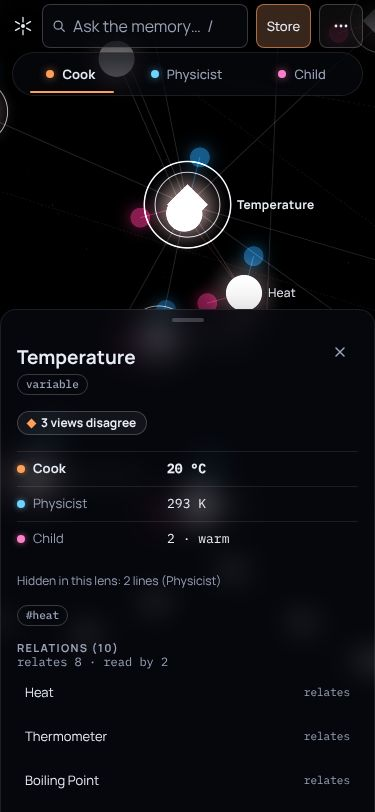
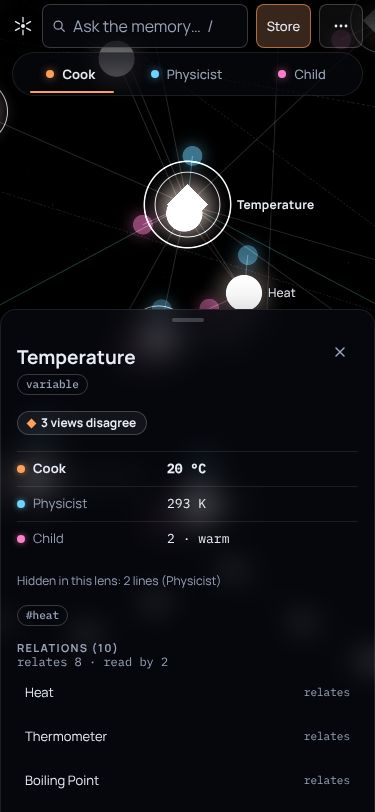
M-0002: 3D void and instruments (WO-003), verify green
Claude-Session: https://claude.ai/code/session_01Nz16PwjAT5eDHtiEjG1iHC

diff --git a/projects/constellation/src/view/renderer.ts b/projects/constellation/src/view/renderer.ts
@@ -17,7 +17,7 @@ import type {
   SceneSnapshot,
   TransitionOptions,
 } from './contracts.ts';
-import { createDust, DASH, KIND_CODE, LineLayer, NodeLayer, OP_CODE, SHEEN, SPRITE, SpriteLayer, type LineSpec } from './layers.ts';
+import { createDust, DASH, KIND_CODE, LineLayer, LiteLineLayer, NodeLayer, OP_CODE, SHEEN, SPRITE, SpriteLayer, type LineSpec } from './layers.ts';
 import { clamp, createClock, easeBack, easeInOut, easeOut, easeSine, hash01, lerp, range } from './motion.ts';
 import { Overlay, type OverlayItem } from './overlay.ts';
 
@@ -173,9 +173,10 @@ export const createRenderer: CreateRenderer = ({ container, reducedMotion }) => 
   const nodeLayer = new NodeLayer();
   const edgeLayer = new LineLayer();
   const fxLines = new LineLayer();
+  const liteLines = new LiteLineLayer();
   const sprites = new SpriteLayer();
   const dust = createDust();
-  scene.add(dust, edgeLayer.mesh, fxLines.mesh, nodeLayer.points, sprites.points);
+  scene.add(dust, liteLines.lines, edgeLayer.mesh, fxLines.mesh, nodeLayer.points, sprites.points);
   for (const m of [nodeLayer.material, sprites.material, dust.material as typeof nodeLayer.material]) {
     if (m.uniforms.uDpr) m.uniforms.uDpr.value = dpr;
   }
@@ -233,6 +234,7 @@ export const createRenderer: CreateRenderer = ({ container, reducedMotion }) => 
   let frameMs = 0;
   let raf = 0;
   let disposed = false;
+  let renderScale = 1;
 
   const tmp = new Vector3();
 
@@ -1067,6 +1069,9 @@ export const createRenderer: CreateRenderer = ({ container, reducedMotion }) => 
 
     // Edge pass
     edgeLayer.begin();
+    liteLines.begin();
+    // LOD: in dense scenes plain 1 px lines take the cheap native path.
+    const dense = visibleEdgeIds.size > 300;
     edgeLayer.material.uniforms.uTime!.value = now;
     edgeLayer.material.uniforms.uSheen!.value = reduced ? 0 : 1;
     edgeLayer.material.uniforms.uViewport!.value.set(width, height);
@@ -1103,7 +1108,8 @@ export const createRenderer: CreateRenderer = ({ container, reducedMotion }) => 
       if (reduced && intro.t0 !== NEVER) k *= introFade;
       k *= Math.min(na?.dying === NEVER ? 1 : 0, nb?.dying === NEVER ? 1 : 0) || (e.removing !== NEVER ? 1 : 0);
       const midDepth = ((na?.depth ?? 300) + (nb?.depth ?? 300)) / 2;
-      const fog = lerp(1, 0.35, range(midDepth, 150 * kDist, 450 * kDist));
+      // Learned shortcuts are the brightest lines in the sky (polish 12): no distance fog.
+      const fog = e.look === 'shortcut' ? 1 : lerp(1, 0.35, range(midDepth, 150 * kDist, 450 * kDist));
       let alpha = st.alpha * (0.6 + 0.4 * e.weight) * fog * k * fade;
       // Focus
       if (activationFade > 0) {
@@ -1125,7 +1131,9 @@ export const createRenderer: CreateRenderer = ({ container, reducedMotion }) => 
         rgb: st.rgb, mid, alpha, width: st.width, dash: st.dash, from, to,
         sheen: st.sheen, phase: e.phase, len: Math.max(1, e.look === 'next' ? e.len : Math.hypot(a.x - b.x, a.y - b.y, a.z - b.z)),
       };
-      edgeLayer.push(spec);
+      const focused = (hovered && (e.from === hovered || e.to === hovered)) || (selected && (e.from === selected || e.to === selected)) || (activationFade > 0 && activation?.has(e.from) && activation?.has(e.to));
+      if (dense && !focused && e.look === 'relates' && !e.lensOnly && from === 0 && to >= 1) liteLines.push(spec);
+      else edgeLayer.push(spec);
       // Shortcut glints at both ends (1.6×)
       if (e.look === 'shortcut' && na && nb && alpha > 0.05) {
         for (const n of [na, nb]) {
@@ -1135,6 +1143,7 @@ export const createRenderer: CreateRenderer = ({ container, reducedMotion }) => 
       }
     }
     edgeLayer.end();
+    liteLines.end();
 
     // Trails
     const trailHeads: RenderDebugState['trailHeads'] = [];
@@ -1234,6 +1243,17 @@ export const createRenderer: CreateRenderer = ({ container, reducedMotion }) => 
       fps = (fpsFrames * 1000) / (wall - fpsT0);
       fpsFrames = 0;
       fpsT0 = wall;
+      // Adaptive resolution: a fill-bound device (software GL, weak GPU) trades sharpness for
+      // frame rate in 15% steps down to 0.6×, and recovers when there is headroom.
+      const next = fps < 40 ? Math.max(0.6, renderScale - 0.15) : fps > 57 ? Math.min(1, renderScale + 0.15) : renderScale;
+      if (next !== renderScale) {
+        renderScale = next;
+        gl.setPixelRatio(dpr * renderScale);
+        gl.setSize(width, height, false);
+        for (const m of [nodeLayer.material, sprites.material, dust.material as typeof nodeLayer.material]) {
+          if (m.uniforms.uDpr) m.uniforms.uDpr.value = dpr * renderScale;
+        }
+      }
     }
 
     // Hover pick (after positions are fresh)
@@ -1595,6 +1615,7 @@ export const createRenderer: CreateRenderer = ({ container, reducedMotion }) => 
       overlay.dispose();
       nodeLayer.dispose();
       edgeLayer.dispose();
+      liteLines.dispose();
       fxLines.dispose();
       sprites.dispose();
       gl.dispose();

diff --git a/projects/constellation/src/view/layers.ts b/projects/constellation/src/view/layers.ts
@@ -8,6 +8,7 @@ import {
   DynamicDrawUsage,
   InstancedBufferAttribute,
   InstancedBufferGeometry,
+  LineSegments,
   Mesh,
   Points,
   ShaderMaterial,
@@ -359,7 +360,7 @@ void main() {
   vec2 n = vec2(-dir.y, dir.x);
   vLenPx = len;
   vHalfW = iStyle.x * 0.5;
-  float hw = vHalfW + 1.0;
+  float hw = max(vHalfW, 0.5) + 0.6; // tight AA margin: long faint lines are the fill cost
   vSide = corner.y * hw;
   vec4 p = mix(a, b, corner.x);
   p.xy += n * corner.y * hw * 2.0 / uViewport * p.w;
@@ -540,4 +541,74 @@ export function createDust(seed = 7): Points {
   const p = new Points(geo, mat);
   p.frustumCulled = false;
   return p;
+}
+
+// ── Lite lines: native 1 px GL_LINES for dense scenes (LOD) ──────────────────────────
+const LITE_VS = /* glsl */ `
+attribute vec3 aCol; // premultiplied rgb
+varying vec3 vCol;
+void main() {
+  vCol = aCol;
+  gl_Position = projectionMatrix * modelViewMatrix * vec4(position, 1.0);
+}`;
+const LITE_FS = /* glsl */ `
+varying vec3 vCol;
+void main() { gl_FragColor = vec4(vCol, 1.0); }`;
+
+export class LiteLineLayer {
+  readonly lines: LineSegments;
+  private geo = new BufferGeometry();
+  private pos = new Float32Array(0) as Float32Array<ArrayBuffer>;
+  private col = new Float32Array(0) as Float32Array<ArrayBuffer>;
+  count = 0;
+
+  constructor() {
+    const mat = new ShaderMaterial({ vertexShader: LITE_VS, fragmentShader: LITE_FS, ...additive });
+    this.lines = new LineSegments(this.geo, mat);
+    this.lines.frustumCulled = false;
+    this.ensure(64);
+  }
+
+  private ensure(n: number): void {
+    if (this.pos.length >= n * 6) return;
+    const keepP = this.pos;
+    const keepC = this.col;
+    this.pos = grow(this.pos, n * 6);
+    this.col = new Float32Array(this.pos.length);
+    this.pos.set(keepP);
+    this.col.set(keepC);
+    for (const [name, arr] of [['position', this.pos], ['aCol', this.col]] as const) {
+      const a = new BufferAttribute(arr, 3);
+      a.setUsage(DynamicDrawUsage);
+      this.geo.setAttribute(name, a);
+    }
+  }
+
+  begin(): void {
+    this.count = 0;
+  }
+
+  push(l: LineSpec): void {
+    this.ensure(this.count + 1);
+    const i = this.count++ * 6;
+    this.pos[i] = l.ax; this.pos[i + 1] = l.ay; this.pos[i + 2] = l.az;
+    this.pos[i + 3] = l.bx; this.pos[i + 4] = l.by; this.pos[i + 5] = l.bz;
+    const a = Math.min(1, l.alpha);
+    for (let k = 0; k < 2; k++) {
+      this.col[i + k * 3] = (l.rgb[0] ?? 1) * a;
+      this.col[i + k * 3 + 1] = (l.rgb[1] ?? 1) * a;
+      this.col[i + k * 3 + 2] = (l.rgb[2] ?? 1) * a;
+    }
+  }
+
+  end(): void {
+    for (const name of ['position', 'aCol']) (this.geo.getAttribute(name) as BufferAttribute).needsUpdate = true;
+    this.geo.setDrawRange(0, this.count * 2);
+    this.lines.visible = this.count > 0;
+  }
+
+  dispose(): void {
+    this.geo.dispose();
+    (this.lines.material as ShaderMaterial).dispose();
+  }
 }

diff --git a/bureau/missions/M-0002-constellation/reports/WO-003.md b/bureau/missions/M-0002-constellation/reports/WO-003.md
@@ -1,0 +1,54 @@
+# Report — WO-003 — The void and its instruments (S2)
+
+STATUS: DONE
+Discipline: rendering (Three.js) + frontend UI · Mission: M-0002 · Round: build
+
+## Built
+- **Renderer** (`src/view/`): the whole void runs on one clock.
+  - Nodes are SDF point sprites, with a glyph for each kind and pathway op.
+  - Edges are instanced screen-space quads with width, dashes, sheen and lens-midpoint gradients.
+  - Animation: ignition intro, morph with stagger and retargeting, facet ghosts and chips, route race trails with beads and chips, shortcut collapse and glint, and a pulse comet with tail, read-spark, condition chip and loop badge.
+  - Camera: orbit rig with damping, focus-fly with lift, drift, and panel insets via a view offset.
+- **UI** (`src/ui/`): top bar, drawer (Route · Pathways · Results), inspector, Store sheet, link mode, toasts, confirm and key-map dialogs, sound toggle (WebAudio), import/export/reset, undo, the full §12 key map, intro choreography, responsive rail and bottom sheets, and the no-WebGL state.
+- **Main** (`src/main.ts`): loads the autosave or the seed through `loadSaved`/`validateDoc`, runs `startAutosave`, supports `?seed=1` and `?stress=N`, and installs `window.__constellation`.
+- **Labels decision:** a capped DOM pool (40, 18 below 600 px, 48 at 1920 px). Placement is greedy by priority, and any label that overlaps a placed label or a node core is rejected (`src/view/overlay.ts`).
+
+## Done-when criteria
+| # | Criterion | ✓/✗ | Evidence |
+|---|---|---|---|
+| 1 | E1–E5, each with scan() and screenshots | ✓ | `tests/e2e/flows.spec.ts` (5 pass) |
+| 2 | E6: 500 points ≥ 30 fps; query to lit ≤ 150 ms; morph ≤ 1200 ms | ✓ | `instruments.spec.ts:8,18`; `flows.spec.ts` E2. About 51 fps solo under SwiftShader |
+| 3 | E7: keyboard Tab/Enter/Esc with visible focus; reduced motion makes morphs instant | ✓ | `instruments.spec.ts` E7 ×2 |
+| 4 | Frames at 1440 / 1024 / 375 | ✓ | `evidence/screens/` (22 files); the best 4 are in `evidence/` |
+| 5 | Broken import shows the core's human error; README | ✓ | `instruments.spec.ts:163`; `projects/constellation/README.md` |
+
+## Verify
+`npm run verify` gives **VERIFY PASSED**: preflight, typecheck, unit, build, size (186.7 / 230 KB gz JS) and e2e (14/14).
+
+## Screenshots (looked at)
+F1-idle-{1440,1024,375}, F2-hover, F3-inspect, F3-rail-1024, F3-sheet-375, F4-morph-midway, F4-reduced-motion, F5-morph-settled, F6-route-race, F7-route-complete-{1440,1024}, F8-shortcut-learned, F9-pulse-mid-loop, F10-pathway-result, F10-sheet-375, F11-search, F12-stored, Store-validation-375, NoWebGL-1440, E0-boot.
+
+## Fixed after looking
+- **Lines over the 64th never drew.** three.js caches `_maxInstanceCount` at first bind (fixed at `layers.ts`, the `ensure()` reset). This also hid the learned A–Z shortcut.
+- **Colours were converted to linear and came out dark.** Chips rendered brick-red instead of amber.
+- Ghost chips were too dim to read; the route form overflowed; the inspector actions were clipped at 1024; labels slid under the top bar on mobile; the learned line was dimmed with the rest of the sky.
+- **Performance:** 3.7 → 51 fps at 500 points.
+  - MSAA off (the shaders anti-alias themselves).
+  - Cheaper halo.
+  - Adaptive render scale down to 0.6× when fps < 40.
+  - Level of detail: above 300 lines, plain 1 px "relates" lines go through native `GL_LINES`.
+
+## Polish list
+Done: 1–12, 14–25.
+Partial:
+- 13: Undo removes the line with a 300 ms reverse draw, but nothing tests it.
+- 5: "No node moves > 6% of the viewport between frames" is not measured.
+- 3: Labels never overlap other labels, but chips may sit near labels.
+
+## Gaps and requests
+- F8: the "Learned" toast covers the lower end of the A–Z line at 1440×900.
+- Spec F12 asserts that "tea" gives 1 match at depth 0. The core's substring search also matches "Steam", so the test asserts that Tea is among the matches instead. CEO/designer to amend the spec.
+- The default view's lens-change camera does not refit; the spec is silent on this.
+- REQUEST (CEO): I added optional members to `view/contracts.ts`: `SceneNode.op/ghostText`, `SceneRelation.look/lensOnly/chip`, `SceneSnapshot.lensColors/root`, `PlaybackOptions.conditionText`, `Renderer.extras`, and the hook's `clock`/`state()`. Please ratify them.
+- Units: the core's `MemoryNode.units` is used first; the UI's "unit"-variable fallback applies only when a node has no units.
+- Files outside OWNS: `src/view/contracts.ts` (additive, as allowed). Fonts are vendored (OFL) in `src/styles/fonts/`; no dependency was added.

diff --git a/bureau/missions/M-0002-constellation/log.md b/bureau/missions/M-0002-constellation/log.md
@@ -16,3 +16,4 @@ Chronological record kept by `bureau`. Append with `python3 bureau/bin/bureau lo
 - `2026-11-22T20:05:12Z` **ceo** — CEO decisions on WO-002 REQUESTS: (1) retrieval keeps the frozen non-flow spreading rule; spec F11 amended to 2/4/12/11. (2) types.ts additively gains optional MemoryNode.units / NodeInput.units (per-lens + '*') and FacetView.unit; WO-002 to validate + seed them.
 - `2026-11-22T20:12:26Z` **ceo** — WO-002 DONE: 80/80 unit, units + formatValue, boil 2/4/12/11.
 - `2026-11-23T00:47:17Z` **ceo** — WO-003 engineer stopped by usage limit mid-build (debugging an edge not reaching GPU). WIP checkpointed; resuming same agent after reset.
+- `2026-11-23T00:55:13Z` **ceo** — WO-003 DONE. CEO join: verify green (14 e2e). Ratified WO-003's optional view/contracts.ts members; spec F12 amended for substring search.
